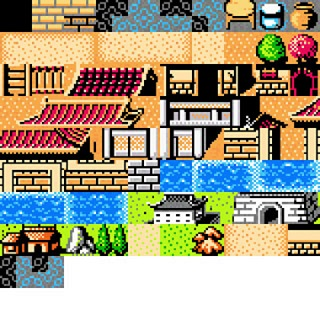
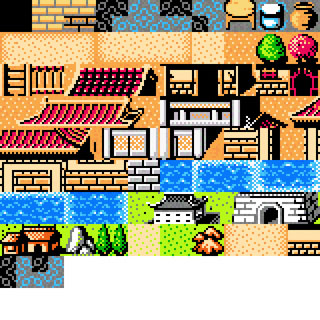
地图设计

Changed region(s): [[0.0, 0.0, 1.0, 0.9062]]

diff --git a/WebContent/js/main.js b/WebContent/js/main.js
@@ -3,6 +3,7 @@ var bitmap01,bitmap02,bitmap03,bitmap04,background; //背景层
 //1,2,3背景  4蘑菇
 var anime,mario,ladder;
 var isMove = false;
+var small = true;//mario是否处于小的状态
 var score = 0;//统计分数
 var isOnladder = false;//在阶梯上
 var islive = true;
@@ -10,8 +11,8 @@ var hx; //阶梯的横坐标
 var canshoot;//是否射击炮弹
 var shootx = 0;//炮口相对人物的位置
 var addSpeed = 0;//添加阶梯的速度
-var MOVE_STEP = 6,HEIGHT_STEP = 78;//mario向右走的宽度和向上跳的高度
-var EN_STEP = 9;
+var MOVE_STEP = 6,HEIGHT_STEP = 100;//mario向右走的宽度和向上跳的高度
+var EN_STEP = 9;//蘑菇速度
 var imgList = {};
 var bitmapDataList = [];
 var STEP = 48;
@@ -20,8 +21,8 @@ var imgData = new Array(
 	{name:"player",path:"images/player.png"},
 //	{name:"mario",path:"images/Mario.png"},
 	{name:"bg",path:"images/mario.jpg"},
-	{name:"map",path:"images/map.jpg"},
-	{name:"pillar",path:"images/pillar.png"},
+	{name:"map",path:"images/map.png"},
+	{name:"pillar",path:"images/pillar_s.png"},
 	{name:"bullet",path:"images/bullet.png"},
 	{name:"enemy",path:"images/enemy.png"}
 );
@@ -58,13 +59,14 @@ function gameInit(){
 //	backLayer.addChild(title);
 //	//添加点击事件
 //	backLayer.addEventListener(LMouseEvent.MOUSE_UP,gameStart);
-	gameStart();
+//	gameStart();
+	addMap();
 }
 
 //添加地图，表示关数
 function addMap(){  	
 	bgClear();
-    map = new LTileMap(mapData,imgList["map"],32,32);  
+    map = new LTileMap(mapData,imgList["map"],36,36);  
     backLayer.addChild(map); 
     backLayer.addEventListener(LMouseEvent.MOUSE_UP,gameStart);
 } 
@@ -174,7 +176,7 @@ function onframe(){
 
 	mario.changeAction();	
 	
-	if(mario.x+34 >= enemy.x && mario.y==318){
+	if(mario.x+34 >= enemy.x && mario.x <= enemy.x+30 && mario.y==318){
 		mario.Big();
 //		backLayer.removeEventListener(LEvent.ENTER_FRAME,onframe);
 //		return;

diff --git a/WebContent/js/player.js b/WebContent/js/player.js
@@ -4,6 +4,7 @@ function Player(){
 	self.moveType = null;
 	self.isMove = false;
 	self.canshoot = false;
+	self.small = true;
 	var list = LGlobal.divideCoordinate(150,120,2,3);
 	var bitmapdata = new LBitmapData(imgList["player"],0,0,50,60);
 	self.anime = new LAnimation(self,bitmapdata,list);
@@ -37,32 +38,27 @@ Player.prototype.changeAction = function(){
 				ladderLayer.removeChild(ladderChild);
 			}
 			//若处于梯子周围并且跳跃则将其置于阶梯上
-			if(self.x+34  >= ladderChild.x && self.x <= ladderChild.x+50){	
-				trace(self.x);
-				trace(ladderChild.x);
-				trace(self.y);
-				if(self.y <= 240){
-					if(self.Small()){
+				if(self.small){
+					if(self.x+34 >= ladderChild.x && self.x <= ladderChild.x+50 && self.y<=240){
 						self.y = 318 - ladderChild.height;
 					}else{
-						self.y = 300 - ladderChild.height;
+						setTimeout(function(){
+							if(self.small){
+								self.y = 318;
+							}
+						},500);
 					}
 					
-				}
-			}else{
-				setTimeout(function(){
-					if(self.Small()){
-						self.y = 318;
-					}else{
-						self.y = 300;
-					}
-					
-				},500);
+				}else if(self.x+50 >= ladderChild.x && self.x <= ladderChild.x+50 && self.y<=240){
+					self.y = 300 - ladderChild.height;
+				}else{
+					setTimeout(function(){
+						if(self.small){
+							self.y = 300;
+						}
+					},500);
 			}
 		}
-//		setTimeout(function(){
-//			self.y = 318;
-//		},300);
 	}		
 };
 
@@ -94,13 +90,18 @@ Player.prototype.shoot = function(){
 
 Player.prototype.Small = function(){
 	var self = this;
+	self.small = true;
+	self.canshoot = false;
 	self.scaleX = 0.7;
 	self.scaleY = 0.7;
 	self.x = 200;
 	self.y = 318;
-}
+};
+
 Player.prototype.Big = function(){
 	var self = this;
+	self.small = false;
+	self.canshoot = true;
 	self.scaleX = 1;
 	self.scaleY = 1;
 	self.x = 200;

diff --git a/WebContent/js/background.js b/WebContent/js/background.js
@@ -18,7 +18,6 @@ function Background(){
 	
 }
 
-
 Background.prototype.run = function(){
 	var self = this;
 	if(self.moveType == "right"){
@@ -32,19 +31,22 @@ Background.prototype.run = function(){
 		//移动阶梯
 		for(key in ladderLayer.childList){
 			var _child = ladderLayer.childList[key];
+			_child._charaOld = _child.x;//上一次位置的横坐标
 			_child.x -= MOVE_STEP;
+			
 //			LGlobal.setDebug(true);
 //			trace(mario.x+34);
 //			trace(_child.x);
-			while(mario.x+34 == _child.x && mario.moveType != "up"){
-				MOVE_STEP = 0;	
-			}
+//			while(mario.x+34 <= _child._charaOld && mario.x+34 >=_child.x && mario.moveType != "up"){
+//				MOVE_STEP = 0;	
+//				_child.x = mario.x + 34;
+//			}
 			if(mario.x > _child.x+50){
 //				MOVE_STEP = 10;
-				if(self.Small()){
-					self.y = 318;
+				if(mario.small){
+					mario.y = 318;
 				}else{
-					self.y = 300;
+					mario.y = 300;
 				}
 			}
 		}
@@ -65,18 +67,18 @@ Background.prototype.run = function(){
 		localStorage.setItem("distance",score);
 		for(key in ladderLayer.childList){
 			var _child = ladderLayer.childList[key];
+			_child._charaOld = _child.x;
 			_child.x += MOVE_STEP;
-			
-			while(mario.x == _child.x + 47 && mario.moveType != "up"){
-				MOVE_STEP = 0;
-				
-			}
+//			while(mario.x >= _child._charaOld + 50 && mario.x <= _child.x + 50 && mario.moveType != "up"){
+//				MOVE_STEP = 0;
+//				_child.x = mario.x + 34;
+//			}
 			if(mario.x+34 < _child.x){
 				MOVE_STEP = 10;
-				if(self.Small()){
-					self.y = 318;
+				if(mario.small){
+					mario.y = 318;
 				}else{
-					self.y = 300;
+					mario.y = 300;
 				}
 			}
 		}

diff --git a/WebContent/js/map.js b/WebContent/js/map.js
@@ -1,14 +1,14 @@
 var mapData = [    
-	               [18,18,18,18,18,18,18,18,18,18,18,18,55,55,18],    
-	               [18,18,18,17,17,17,17,17,17,17,17,17,55,55,18],    
-	               [18,18,17,17,17,17,18,18,17,17,17,17,55,55,18],    
-	               [18,17,17,17,18,18,18,18,18,17,17,55,55,17,18],    
-	               [18,17,17,18,22,23,23,23,24,18,17,55,55,17,18],    
-	               [18,17,17,18,25,28,26,79,27,18,55,55,17,17,18],    
-	               [18,17,17,17,17,10,11,12,18,18,55,55,17,17,18],    
-	               [18,18,17,17,10,16,16,16,11,55,55,17,17,17,18],    
-	               [18,18,17,17,77,16,16,16,16,21,21,17,17,17,18],    
-	               [18,18,18,18,18,18,18,18,18,55,55,18,18,18,18]  
+	                [18,18,18,18,18,18,18,18,18,18,18,18,55,55,18], 
+					[18,87,16,17,17,17,17,17,17,17,17,17,55,55,18],    
+					[18,18,16,17,17,17,18,18,17,17,17,17,55,55,18],    
+					[18,17,17,17,18,18,18,18,18,17,17,55,55,17,18],    
+					[18,17,17,18,22,23,23,23,24,18,17,55,55,17,18],    
+					[18,17,17,18,25,28,26,79,27,18,55,55,17,17,18],    
+					[18,17,17,17,17,10,82,12,18,18,55,55,17,17,18],    
+					[18,18,17,17,10,16,16,16,11,55,55,17,17,17,18],    
+					[18,18,17,17,77,16,16,16,16,21,21,17,17,17,18],    
+					[18,18,18,18,18,18,18,18,18,55,55,18,18,18,18]
                ]; 
 
 function LTileMap(data,img,width,height){  

diff --git a/WebContent/js/coin.js b/WebContent/js/coin.js
@@ -1,0 +1,36 @@
+function Coin(){
+	base(this,LSprite,[]);
+	var self = this;
+//	self.bitmapData = new LBitmapData(imgList["enemy"]);
+//	self.bitmap04 = new LBitmap(self.bitmapData);
+//	self.addChild(self.bitmap04);
+	
+	var list = LGlobal.divideCoordinate(94, 30, 1, 3);
+	var bitmapdata = new LBitmapData(imgList["enemy"],0,0,31,30);
+	self.anime = new LAnimation(self,bitmapdata,list);
+	self.x = 500;
+	self.y = 332;
+	self.anime.setAction(2);
+}
+Enemy.prototype.run =  function(){
+	var self = this;
+//	if(self.islive){
+		self.x -= EN_STEP;
+		self.changeAction();
+//	}
+};
+Enemy.prototype.changeAction = function(){
+	LGlobal.setDebug(true);
+	var self = this;
+	if(mario.x + 34 >= self.x){
+//		if(mario.y < 300){
+			self.islive = false;
+			setTimeout(function(){
+				self.anime.setAction(0,1);
+			},100);
+			setTimeout(function(){
+				self.anime.setAction(0,2);
+			},100);
+//		}
+	}
+};

diff --git a/WebContent/js/ladder.js b/WebContent/js/ladder.js
@@ -2,6 +2,7 @@ function Ladder(){
 	base(this,LSprite,[]);
 	var self = this;
 	self.child = null;
+	self._charaOld = self.x;//上一次位置的横坐标
 	self.setView();
 }
 
@@ -28,11 +29,6 @@ function addladder(){
 	aladder.x = Math.random()*LGlobal.width+mario.x;
 	aladder.y = 286;
 	ladderLayer.addChild(aladder);
-}
-
-//消灭阶梯
-function removeladder(){
-
 }
 
 //阶梯实例化
